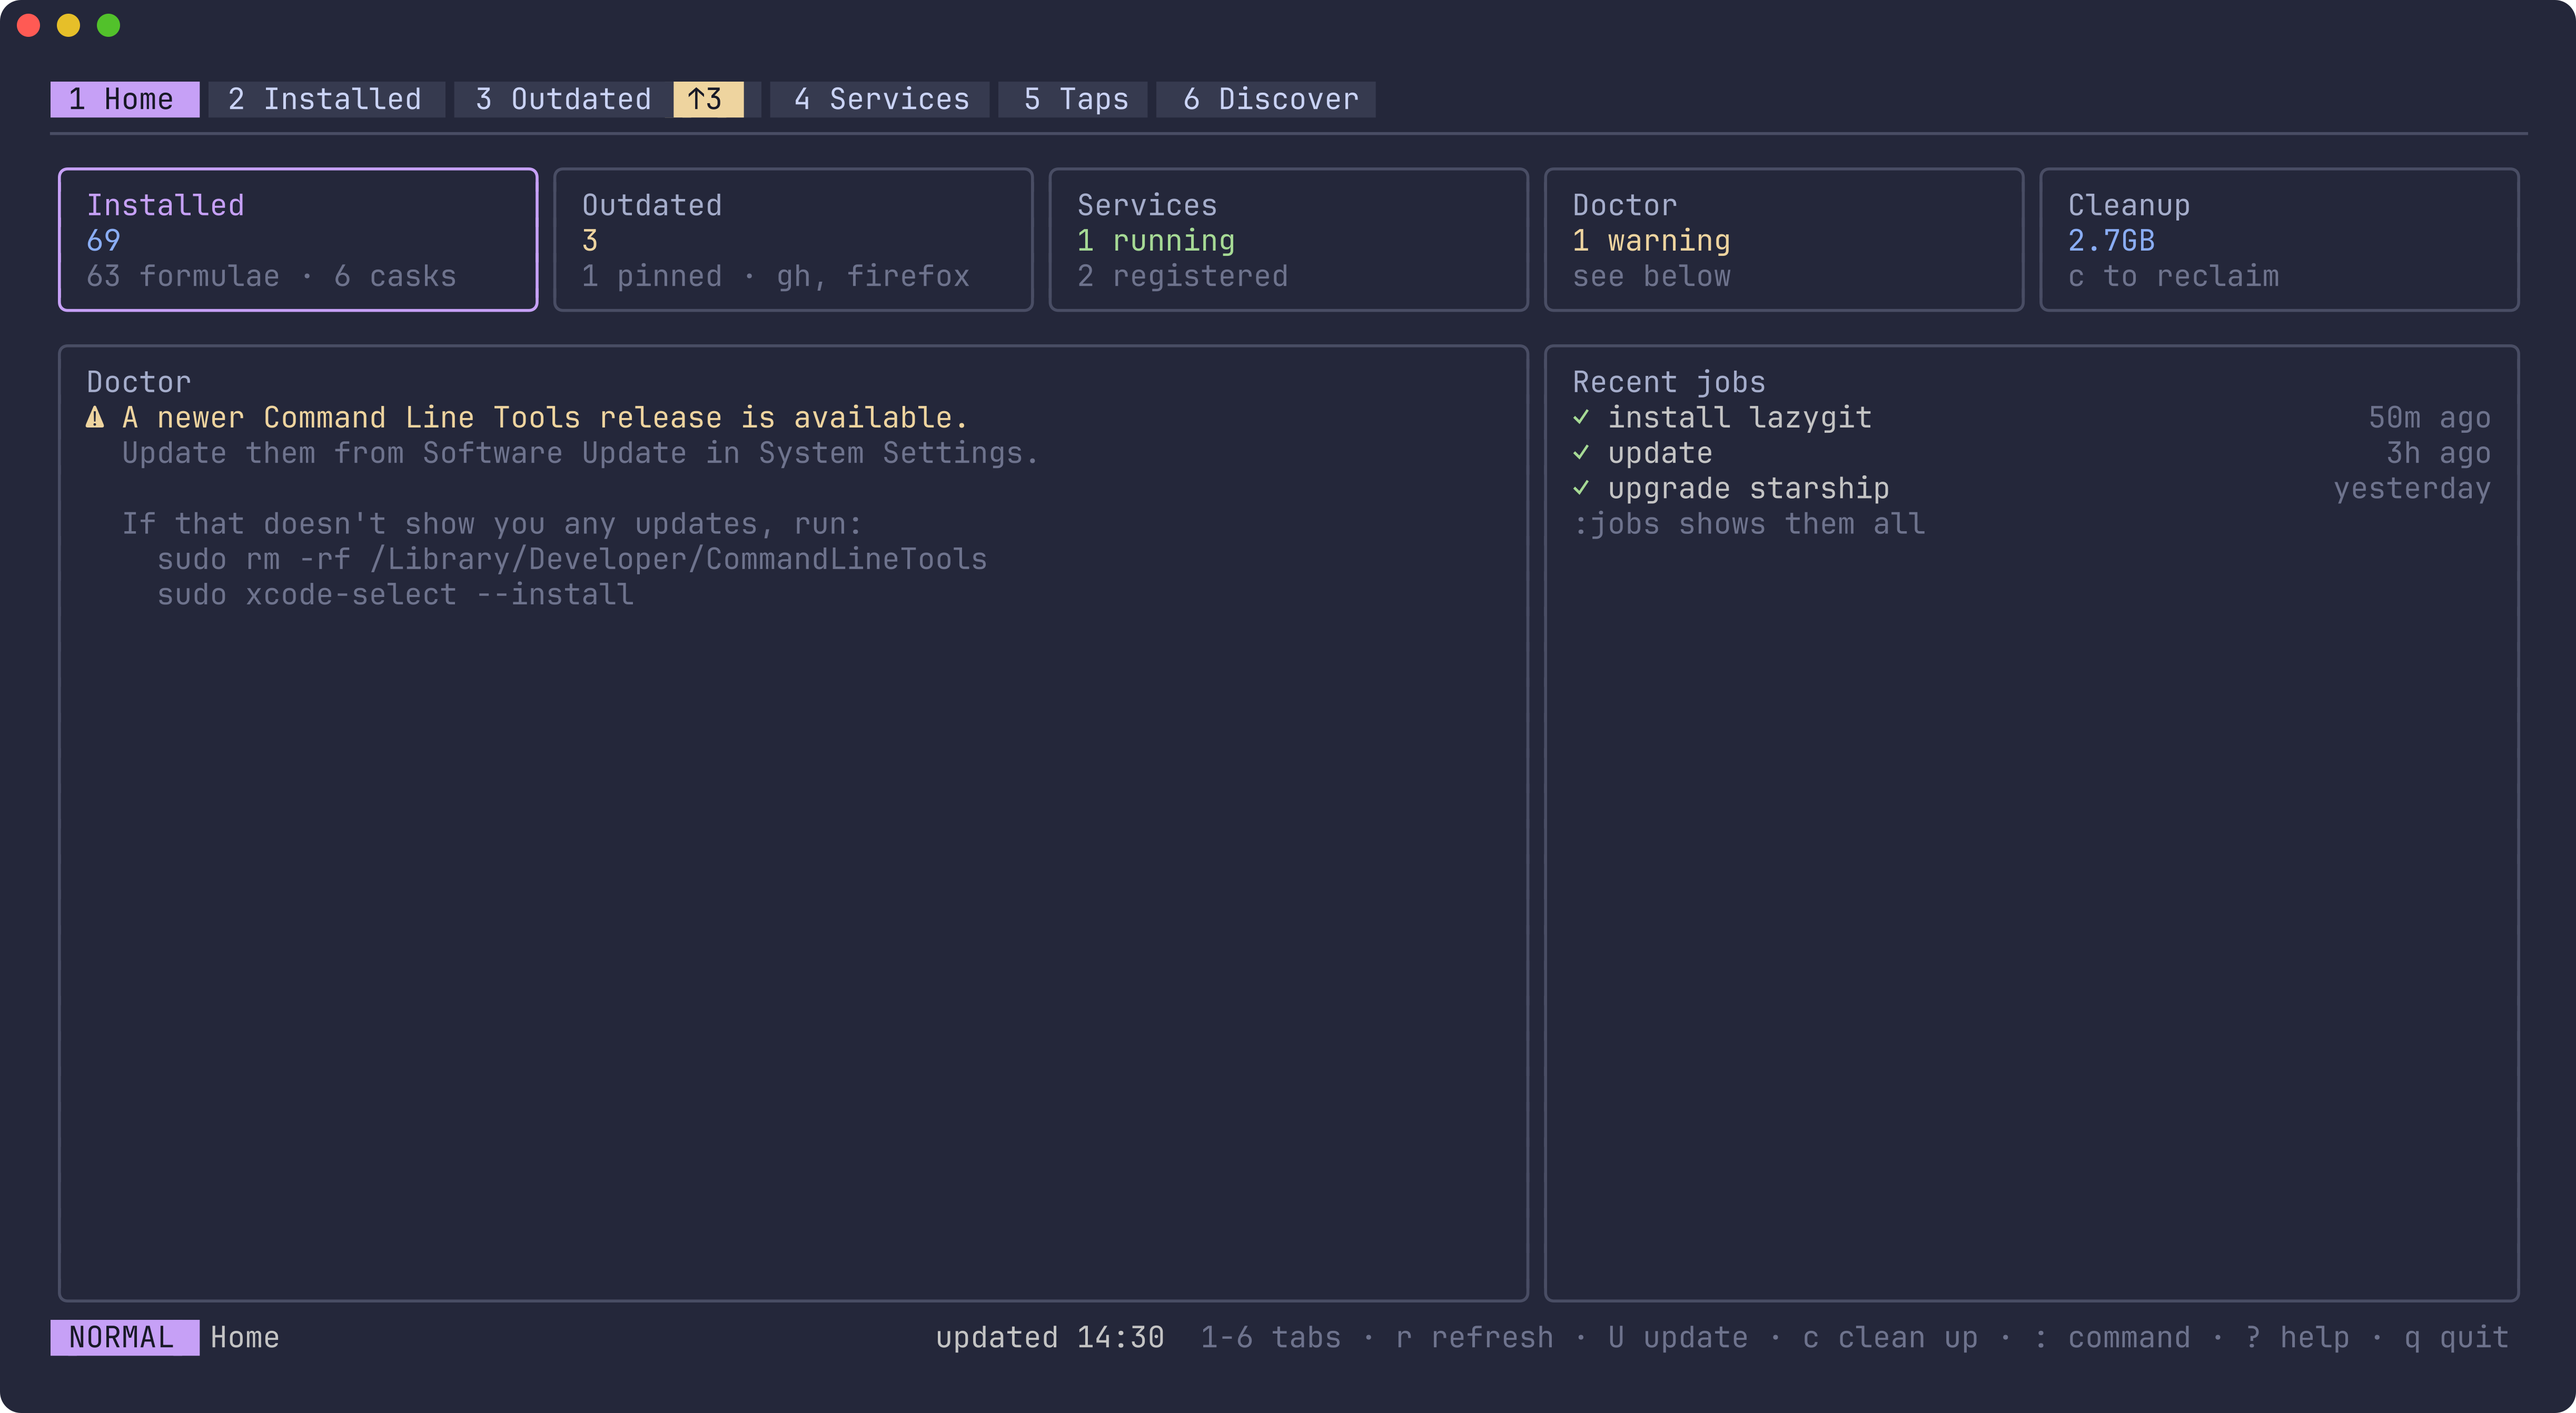
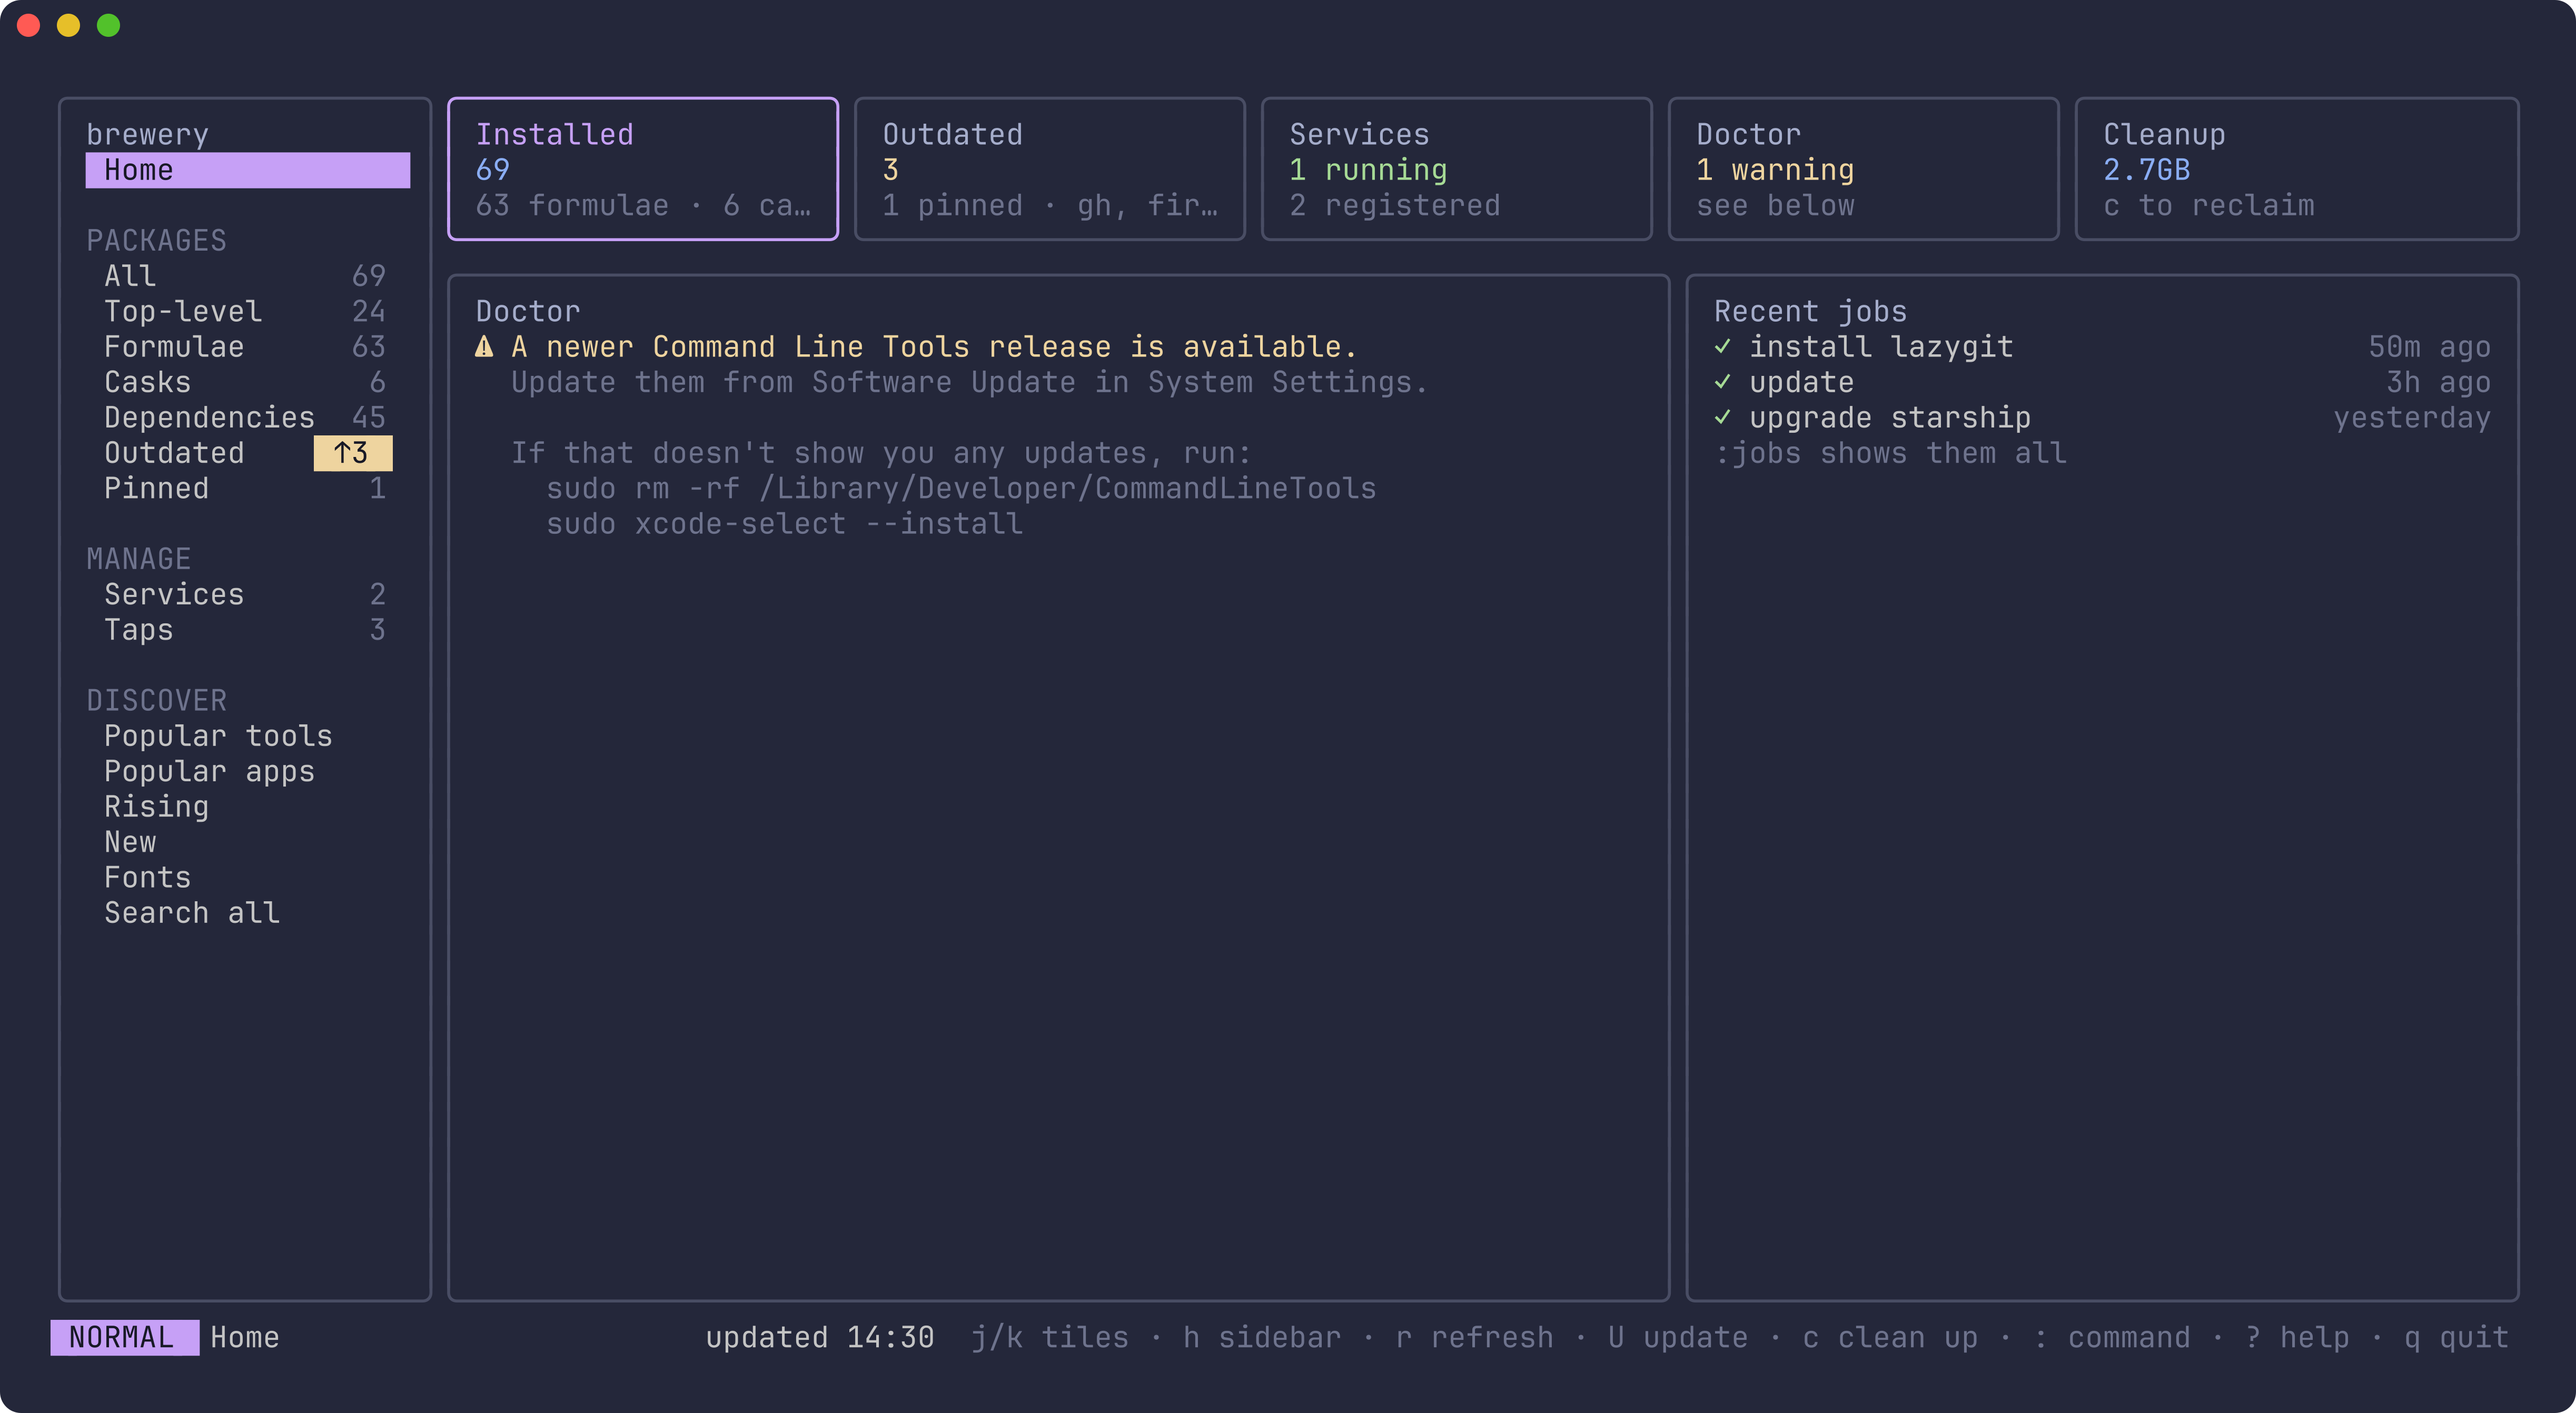
docs: the README describes the sidebar

Changed region(s): [[0.0, 0.0309, 0.9943, 0.4639], [0.0311, 0.4948, 0.1243, 0.6494], [0.2796, 0.9277, 0.4971, 0.9586]]

diff --git a/README.md b/README.md
@@ -5,7 +5,7 @@ what's running; upgrade, uninstall, pin, start and stop services, clean up,
 and find new formulae, apps and fonts to install — with brew's own output
 live in a drawer, and any brew command a `:` away.
 
-![brewery's Home tab: counts of what's installed, outdated and running, doctor's warnings and recent jobs](docs/screenshots/home.png)
+![brewery's Home: counts of what's installed, outdated and running, doctor's warnings and recent jobs](docs/screenshots/home.png)
 
 ## Install
 
@@ -19,11 +19,11 @@ Then run `brewery`.
 
 Everything installed, with what it needs and what needs it.
 
-![The Installed tab: a list of packages with versions, sizes and status, and a preview of git with its dependency tree](docs/screenshots/installed.png)
+![Top-level: a list of packages with versions, sizes and status, and a preview of git with its dependency tree](docs/screenshots/installed.png)
 
 Find popular and rising packages, and install them.
 
-![The Discover tab: Homebrew's most-installed tools, with a preview of pipx showing what installing it would add and its install counts](docs/screenshots/discover.png)
+![Popular tools: Homebrew's most-installed tools, with a preview of pipx showing what installing it would add and its install counts](docs/screenshots/discover.png)
 
 brew's own output, live — answer its questions right in the drawer.
 
@@ -36,15 +36,14 @@ brew's own output, live — answer its questions right in the drawer.
 - A [Nerd Font](https://www.nerdfonts.com) for icons — optional. Without one,
   run `brewery --no-icons`, or set `BREWERY_NO_ICONS` to any value.
 
-## Tabs
+## Sidebar
 
-1. **Home** — counts, doctor's warnings, recent jobs
-2. **Installed** — everything installed, with a preview of each package
-3. **Outdated** — what has a newer version
-4. **Services** — `brew services`, with each service's log
-5. **Taps** — the taps you've added; `x` untaps one
-6. **Discover** — popular and rising packages from Homebrew's analytics, what's
-   new, and the whole catalogue to search
+- **Home**: counts, doctor's warnings, recent jobs
+- **Packages**: All, Top-level, Formulae, Casks, Dependencies, Outdated, Pinned,
+  each with a preview of the selected package
+- **Manage**: Services, with each service's log; Taps, where `x` untaps one
+- **Discover**: Popular tools, Popular apps, Rising, New, Fonts, and Search all
+  for the whole catalogue
 
 ## Keys
 
@@ -52,19 +51,20 @@ Press `?` anywhere for the keys that work there.
 
 | Key | What it does |
 |---|---|
-| `1`–`6`, `[` `]` | switch tabs |
-| `h` `l` | move between Home's tiles; `enter` opens one |
+| `h` `l` | move between the sidebar, the list and the preview |
+| `1`–`4` | Home, Packages, Manage, Discover |
+| `[` `]` | previous or next entry |
+| `j` `k` on Home | move between its tiles; `enter` opens one |
 | `j` `k`, `gg` `G`, `ctrl+d` `ctrl+u` | move in a list |
 | `/` | filter the list |
-| `f` `F` | next or previous view (Installed, Discover) |
 | `u` | upgrade (Installed, Outdated) |
 | `A` | upgrade all (Outdated) |
 | `x` | uninstall (Installed), untap (Taps) |
 | `p` | pin or unpin (Installed) |
 | `space` | mark several for `u` or `x` |
-| `s` `S` `R` | start, stop, restart a service; `l` follows its log |
+| `s` `S` `R` | start, stop, restart a service; `L` follows its log |
 | `a` | install (Discover) |
-| `tab` `enter` | preview, then `j` `k` scroll |
+| `l` `tab` `enter` | preview, then `j` `k` scroll |
 | `y` | copy the name |
 | `gx` | open the homepage |
 | `:` | run any brew command |
